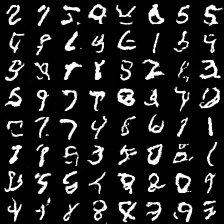
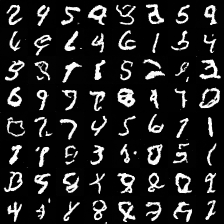
Diffusion on MNIST with group norm and 7 x 7 attention (--groups 8 --attention, 455K parameters): FID 18.1 after 20 epochs (118 / 48 / 27 / 18 every 5), against 24.8 without; sample grid from it

diff --git a/docs/model_families.md b/docs/model_families.md
@@ -126,12 +126,19 @@ NANOGRAD_THREADS=8 .venv/bin/python diffusion_demo.py --dataset mnist --dtype fl
 
 | U-Net | parameters | FID, 1,000 samples (real images: 2.4) | time |
 | --- | ---: | ---: | --- |
-| width 32, 20 epochs | 404K | **24.8** | 2.8 h on 8 threads |
+| width 32, 20 epochs | 404K | 24.8 | 2.8 h on 8 threads |
+| + group norm and attention (`--groups 8 --attention`) | 455K | **18.1** | 4.5 h on 8 threads |
 
-![64 DDIM samples](images/diffusion_mnist.png)
+Over training (FID after 5 / 10 / 15 / 20 epochs) the second goes
+118 / 48 / 27 / 18. Group norm (`--groups`) switches the residual blocks to
+DDPM's order (norm, SiLU, convolution); `--attention` adds a single-head
+transformer block over the 7 x 7 middle, where every position sees the
+whole digit.
 
-*Added*: DDIM sampling, the clipped DDPM posterior step, an EMA of the
-weights, and the FID.
+![64 DDIM samples from the group norm + attention U-Net](images/diffusion_mnist.png)
+
+*Added*: group norm, DDIM sampling, the clipped DDPM posterior step, an
+EMA of the weights, and the FID.
 
 ## Graph networks: GCN (`gcn.py`)
 

diff --git a/docs/benchmarks.md b/docs/benchmarks.md
@@ -44,7 +44,7 @@ and float64, and NanoGrad uses its C kernels.
 | Tiny Shakespeare | nanoGPT's baby GPT, 2,000 steps | val loss **1.921** | nanoGPT, same recipe: 1.886 |
 | Tiny Shakespeare | BERT-style encoder, masked characters | identical in both | |
 | MNIST | VAE, 3 epochs | **117.3** nats per image (negative ELBO) | |
-| MNIST (generation) | DDPM, 404K-parameter U-Net, 20 epochs, EMA, DDIM 100 steps | FID **24.8** on a small MNIST CNN's features, 1,000 samples (real images: 2.4) | |
+| MNIST (generation) | DDPM, 455K-parameter U-Net with group norm and 7 x 7 attention, 20 epochs, EMA, DDIM 100 steps | FID **18.1** on a small MNIST CNN's features, 1,000 samples (real images: 2.4; without norm and attention: 24.8) | |
 
 The Tiny Shakespeare GPT is compared against nanoGPT itself (a separate
 implementation, so the curves agree statistically, not to rounding); see
